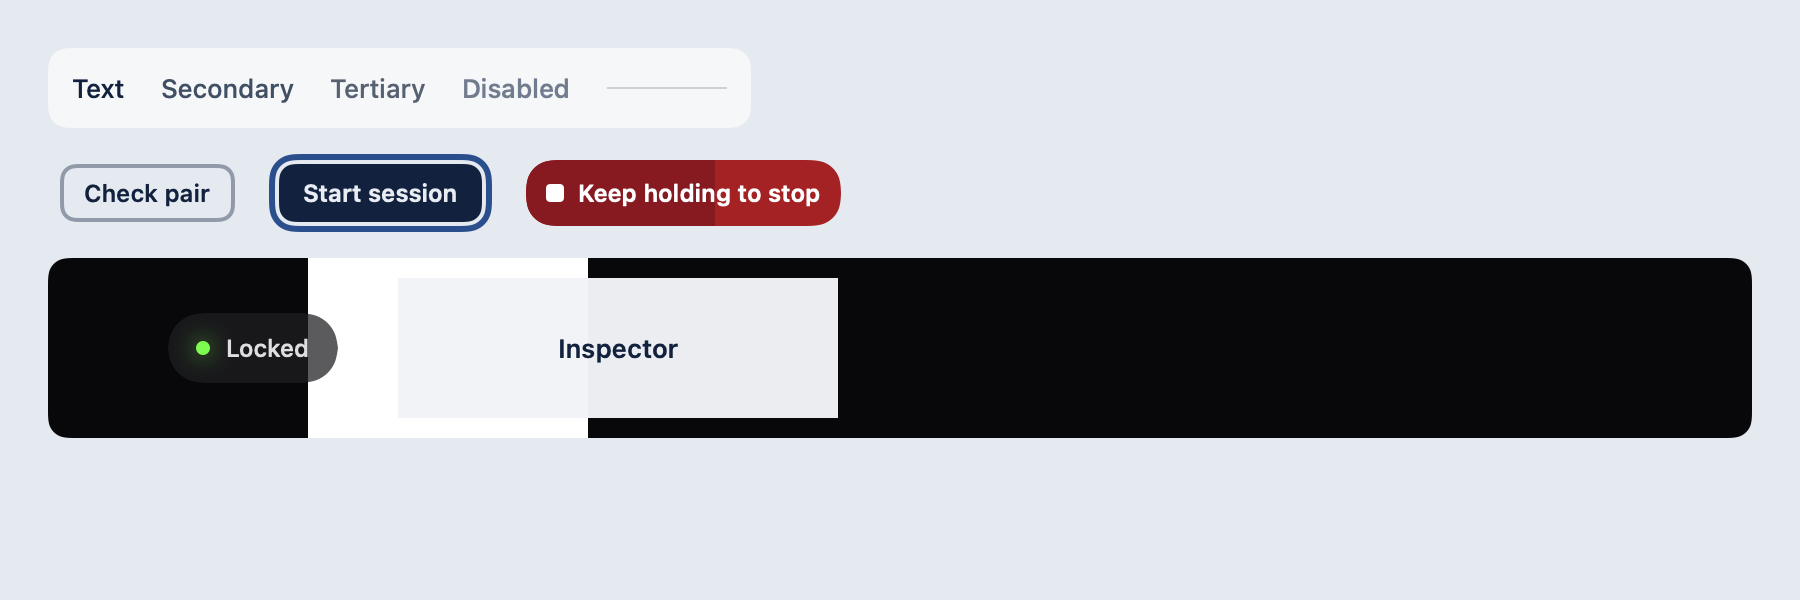
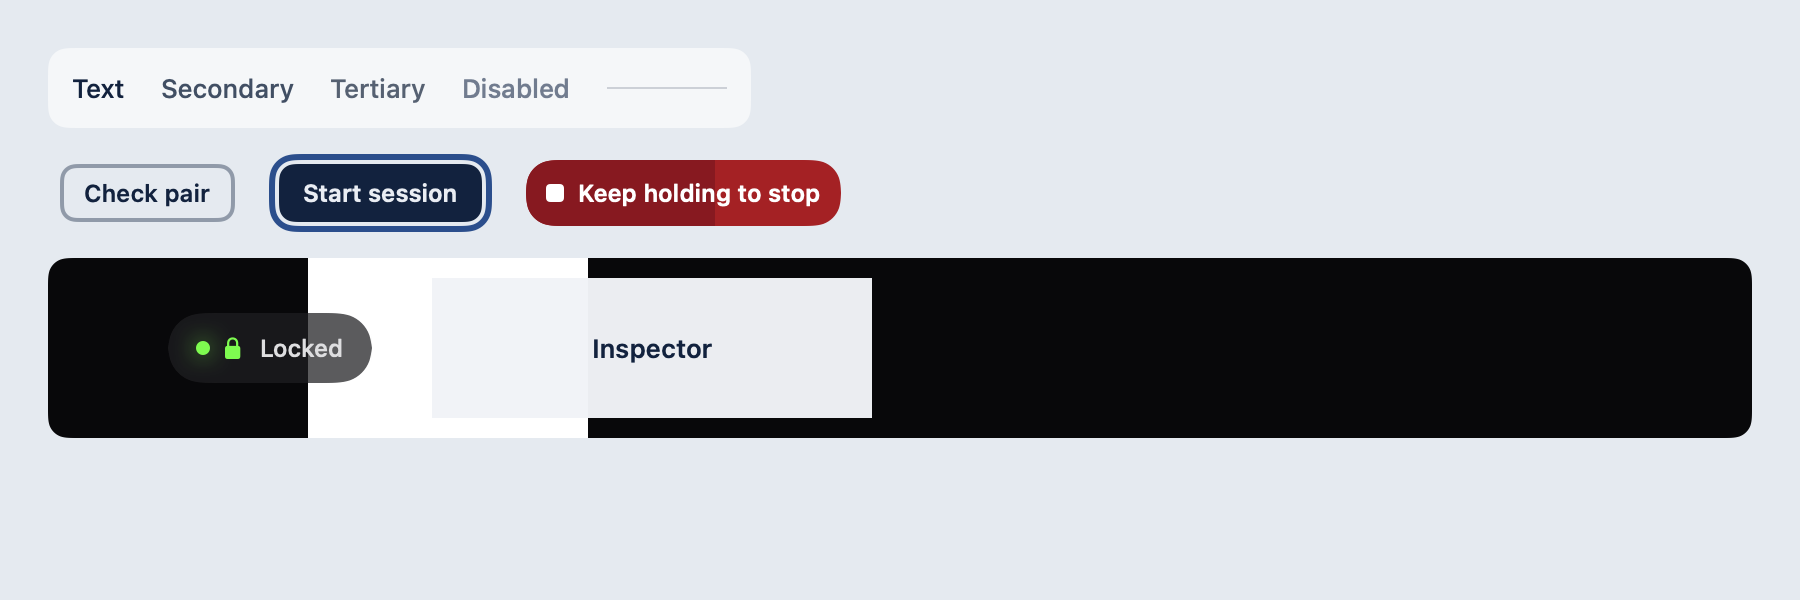
Record Track A captures and results (UX J3, J4, J5, J12)

Changed region(s): [[0.4667, 0.45, 0.4978, 0.72], [0.1244, 0.51, 0.2178, 0.66], [0.3111, 0.57, 0.4044, 0.6]]

diff --git a/CinematicCoreMacOS/CinematicCoreMacOSTests/TrackAGallerySnapshotTests.swift b/CinematicCoreMacOS/CinematicCoreMacOSTests/TrackAGallerySnapshotTests.swift
@@ -1,0 +1,210 @@
+//
+//  TrackAGallerySnapshotTests.swift
+//  CinematicCoreMacOSTests
+//
+//  Track A captures (UX J3, J4, J5, J12) over a synthetic picture: the
+//  pill's lock states, a hovered candidate, the on-picture hints, the
+//  Webcam use states and its one-time note. Footage stays dark in every
+//  appearance, so each scene renders once, plus Reduce Transparency.
+//  Set ALFIE_GALLERY_SNAPSHOTS=1 (TEST_RUNNER_ALFIE_GALLERY_SNAPSHOTS=1 on
+//  xcodebuild) and ALFIE_GALLERY_SNAPSHOT_DIR to write the PNGs.
+//
+
+import AppKit
+import SwiftUI
+import Testing
+@testable import Alfie
+
+@MainActor
+struct TrackAGallerySnapshotTests {
+    private static let size = CGSize(width: 1000, height: 560)
+
+    @Test(arguments: [false, true])
+    func rendersTrackingScene(reduceTransparency: Bool) throws {
+        let image = try #require(render(TrackingScene(), reduceTransparency: reduceTransparency))
+        #expect(image.pixelsWide > 0)
+        try write(image, name: reduceTransparency ? "track-a-tracking-reduce-transparency.png" : "track-a-tracking.png")
+    }
+
+    @Test(arguments: [false, true])
+    func rendersWebcamScene(reduceTransparency: Bool) throws {
+        let image = try #require(render(WebcamScene(), reduceTransparency: reduceTransparency))
+        #expect(image.pixelsWide > 0)
+        try write(image, name: reduceTransparency ? "track-a-webcam-reduce-transparency.png" : "track-a-webcam.png")
+    }
+
+    @Test func rendersPillGroupsAndStop() throws {
+        let image = try #require(render(PillScene(), reduceTransparency: false, size: CGSize(width: 1240, height: 420)))
+        #expect(image.pixelsWide > 0)
+        try write(image, name: "track-a-pill.png")
+    }
+
+    // MARK: Rendering
+
+    private func render<V: View>(_ view: V, reduceTransparency: Bool, size: CGSize? = nil) -> NSBitmapImageRep? {
+        let size = size ?? Self.size
+        var display = AlfieDisplayPreferences()
+        display.reduceTransparency = reduceTransparency
+        let host = NSHostingView(rootView: view
+            .environment(\.colorScheme, .dark)
+            .environment(\.alfieDisplayOverride, display)
+            .frame(width: size.width, height: size.height))
+        host.sizingOptions = []
+        host.frame = CGRect(origin: .zero, size: size)
+        let window = TrackAGalleryWindow(contentRect: host.frame, styleMask: [.borderless],
+                                         backing: .buffered, defer: false)
+        window.appearance = NSAppearance(named: .darkAqua)
+        window.contentView = host
+        host.layoutSubtreeIfNeeded()
+        RunLoop.current.run(until: Date().addingTimeInterval(0.05))
+        guard let rep = host.bitmapImageRepForCachingDisplay(in: host.bounds) else { return nil }
+        host.cacheDisplay(in: host.bounds, to: rep)
+        return rep
+    }
+
+    private func write(_ image: NSBitmapImageRep, name: String) throws {
+        let environment = ProcessInfo.processInfo.environment
+        guard environment["ALFIE_GALLERY_SNAPSHOTS"] == "1" else { return }
+        let directory: URL
+        if let override = environment["ALFIE_GALLERY_SNAPSHOT_DIR"], !override.isEmpty {
+            directory = URL(fileURLWithPath: override, isDirectory: true)
+        } else {
+            directory = FileManager.default.temporaryDirectory.appendingPathComponent("AlfieStateGallery", isDirectory: true)
+        }
+        try FileManager.default.createDirectory(at: directory, withIntermediateDirectories: true)
+        let png = try #require(image.representation(using: .png, properties: [:]))
+        try png.write(to: directory.appendingPathComponent(name))
+        print("[TRACK-A] wrote \(directory.appendingPathComponent(name).path)")
+    }
+}
+
+private final class TrackAGalleryWindow: NSWindow {
+    override func constrainFrameRect(_ frameRect: NSRect, to screen: NSScreen?) -> NSRect { frameRect }
+}
+
+/// A synthetic stage: dark at the left, bright at the right, so a scrim is
+/// shown over both extremes. Not a camera picture.
+private struct SyntheticFootage: View {
+    var body: some View {
+        LinearGradient(colors: [Color(white: 0.06), Color(white: 0.35), Color(white: 0.96)],
+                       startPoint: .leading, endPoint: .trailing)
+    }
+}
+
+private func person(_ x: CGFloat, _ y: CGFloat, _ w: CGFloat, _ h: CGFloat, confidence: Float = 0.91)
+    -> PersonDetector.DetectedPerson {
+    PersonDetector.DetectedPerson(id: UUID(), boundingBox: CGRect(x: x, y: y, width: w, height: h),
+                                  confidence: confidence, timestamp: 0, poseKeypoints: nil,
+                                  faceBoundingBox: nil, faceLandmarkRatios: nil)
+}
+
+/// J3: candidates (one under the pointer), a locked subject, and both hints.
+private struct TrackingScene: View {
+    private let imageSize = CGSize(width: 1920, height: 1080)
+
+    var body: some View {
+        HStack(spacing: 0) {
+            pane(title: "Detect: pointer over the left person", hints: nil) { size in
+                ZStack {
+                    let hovered = person(0.12, 0.15, 0.2, 0.6)
+                    box(hovered, size: size, hovered: true)
+                    box(person(0.6, 0.12, 0.22, 0.62, confidence: 0.84), size: size)
+                }
+            }
+            Rectangle().fill(Color.white.opacity(0.12)).frame(width: 1)
+            pane(title: "Hold: the subject is lost", hints: .init(candidatesClickable: true, showsRecoveryHint: true,
+                                                                   isLocked: true)) { size in
+                box(person(0.55, 0.15, 0.2, 0.6, confidence: 0.77), size: size)
+            }
+        }
+        .overlay(alignment: .bottom) {
+            TrackingHintLabel(text: TrackingHintCopy.firstLock)
+                .padding(.bottom, 24)
+        }
+    }
+
+    private func box(_ person: PersonDetector.DetectedPerson, size: CGSize, hovered: Bool = false) -> some View {
+        BoundingBoxView(person: person, displayBoundingBox: person.boundingBox, imageSize: imageSize, viewSize: size,
+                        isLocked: false, isActive: false, isRecovering: false, framingTitle: "Wide",
+                        onSelect: nil, isHovered: hovered)
+    }
+
+    private func pane<Content: View>(title: String, hints: TrackingPresentation?,
+                                     @ViewBuilder content: @escaping (CGSize) -> Content) -> some View {
+        GeometryReader { geometry in
+            ZStack {
+                SyntheticFootage()
+                content(geometry.size)
+                if let hints {
+                    TrackingHintLabel(text: hints.showsRecoveryHint ? TrackingHintCopy.recovery : TrackingHintCopy.firstLock)
+                        .position(x: geometry.size.width / 2, y: geometry.size.height - 120)
+                }
+                Text(title)
+                    .font(.system(size: 12, weight: .semibold))
+                    .foregroundStyle(AlfieColor.onVideo.emphasis)
+                    .padding(6)
+                    .background(Color.black.opacity(0.6), in: RoundedRectangle(cornerRadius: 6))
+                    .position(x: geometry.size.width / 2, y: 18)
+            }
+        }
+    }
+}
+
+/// J5: the three use states and the one-time note, over dark and bright.
+private struct WebcamScene: View {
+    var body: some View {
+        ZStack(alignment: .topLeading) {
+            SyntheticFootage()
+            VStack(alignment: .leading, spacing: 14) {
+                WebcamUsageChip(state: .inUse)
+                WebcamUsageChip(state: .notInUse)
+                WebcamUsageChip(state: .unknown)
+                WebcamTipCard(onDismiss: {})
+            }
+            .padding(24)
+            VStack(alignment: .trailing, spacing: 14) {
+                WebcamUsageChip(state: .inUse)
+                WebcamUsageChip(state: .notInUse)
+                WebcamUsageChip(state: .unknown)
+                WebcamTipCard(onDismiss: {})
+            }
+            .padding(24)
+            .frame(maxWidth: .infinity, alignment: .trailing)
+        }
+    }
+}
+
+/// J4 and J12: the lock states with their glyph, and the pill's Stop phases.
+private struct PillScene: View {
+    @StateObject private var manager = CameraManager()
+
+    var body: some View {
+        ZStack {
+            SyntheticFootage()
+            VStack(spacing: 22) {
+                OperatorPill(cameraManager: manager)
+                HStack(spacing: 18) {
+                    ForEach(OperatorPill.LockState.allCases, id: \.self) { state in
+                        HStack(spacing: 8) {
+                            PillLockIndicator(state: state)
+                            Text(state.label)
+                                .font(.system(size: 12, weight: .medium))
+                                .foregroundStyle(state.labelColor)
+                        }
+                        .padding(.horizontal, 10)
+                        .padding(.vertical, 9)
+                        .background(OperatorPillBackground(cornerRadius: 11))
+                    }
+                }
+                HStack(spacing: 14) {
+                    AlfieHoldToStopButton(confirmationMessage: StopRouteCopy.confirmation(for: .virtualCamera),
+                                          previewPhase: .resting, onStop: {})
+                    AlfieHoldToStopButton(previewPhase: .holding(since: 0), previewProgress: 0.6, onStop: {})
+                    AlfieHoldToStopButton(previewPhase: .needsHold, onStop: {})
+                    AlfieHoldToStopButton(previewPhase: .stopping, onStop: {})
+                    AlfieHoldToStopButton(previewPhase: .failed, onStop: {})
+                }
+            }
+        }
+    }
+}

diff --git a/docs/handoff/2026-11-05/CLAUDE-TRACK-A-RESULTS.md b/docs/handoff/2026-11-05/CLAUDE-TRACK-A-RESULTS.md
@@ -1,7 +1,69 @@
 # Claude Track A results (UX J3, J4, J5, J12)
 
-6 November 2026. Claude Opus 5.5 claimed Track A at 12:45 AEDT, while Sol and Astra were out of usage. Astra skips Track A and finishes Track C; Sol keeps Track B.
+6 November 2026. Claude Opus 5.5 claimed Track A at 12:45 AEDT, while Sol and Astra were out of usage. The claim is #124, the PR that carries this work. Astra skips Track A and finishes Track C; Sol keeps Track B and reviews this PR in Wave 3.
 
-Scope (from the round-two brief): `OperatorPill`, `DetectionOverlayView`, `OverlayLayer`, `CameraPreviewView` and `CropPreviewView`, plus publishing Detect, the five shot commands, `cancel` and `stopSession` from the live Single Cam and Webcam views. ContentView (Track C) gets only the smallest insertions needed to host new views.
+## What changed
 
-In progress.
+**J4 · shape the shot on air** (`OperatorPill`)
+- **Four groups, 12 pt apart:**
+  - Subject: the target chip, the lock state and Detect.
+  - Shot: Wide, Full Body and Waist Up, or Wide and Tight on Webcam.
+  - Move: Crop, Manual, Auto Pan, Pull out, Push in and Return to Wide.
+  - Session: Stop.
+
+  Controls inside a group are 4 pt apart, and each group is a VoiceOver container named for it. The section order is unchanged, so the existing pill tests still hold. The pill got narrower, because three group gaps replaced eight dividers.
+- **Every disabled control says why,** in its help tag and as the VoiceOver hint. For example: "Zoom limited by the source.", "Already at the tightest shot.", "Lock a subject first." and "Turn off Manual or Auto Pan to detect." The pill's "ZOOM LIMITED" line now reads "Zoom limited by the source".
+- **Already done in F3:** Manual and Auto Pan toggles with an on/off indicator, the active shot shown as selected, and the 11 pt labels.
+
+**Keys** (`OperatorPillCommands.swift`)
+- **Only the live single-camera pill publishes** (Single Cam and Webcam):
+  - Detect (D), or Cancel Detect on Escape while Detect waits for a click.
+  - Wide, Full Body and Waist Up (W, F, U). Webcam publishes only W.
+  - Push In and Pull Out (] and [), while each is possible.
+  - Stop Session (⌘⌥⇧S), which takes precedence over the app fallback.
+- **Withdrawn when unavailable,** so the menu item disables and the key passes through.
+- **Announcements** follow keyboard-map.md. A refused command announces its reason, never success.
+- **TAKE and the cue keys are never published here.** The Multiview console's pill publishes nothing; its commands belong to Track B.
+
+**J12 · the pill's Stop**
+- It's `AlfieHoldToStopButton`.
+- The confirmation names the active route from stop.md's table. Direct says "Direct Program output", because the destination's identity is never inferred.
+- A refused Stop shows "Try stopping again".
+- `StopRouteCopy.helper(for:)` holds the header lines, so Track B can use them.
+
+**J3 · lock a subject** (`TrackingHints.swift`, `CameraPreviewView`, `DetectionOverlayView`)
+- **A lock glyph sits beside "Locked" in every setting** (F4 showed it only under Differentiate Without Colour). The pill reserves its width, so locking doesn't shift the pill.
+- **While a click picks a person** (Detect waiting, or Hold or Wide-waiting), the candidate under the pointer gets a wash and a heavier outline, and the pointer becomes the pointing hand. Nothing else in the app uses it.
+- **In Hold and Wide-waiting,** "Click the person to pick them up again." shows on a scrim along the bottom of the picture, and is announced once.
+- **On the first lock only** (persisted per user), "Locked. To follow someone else, press and hold on them." shows for five seconds and is announced.
+- **Under Reduce Motion** the hints don't fade. Under Reduce Transparency the scrims are opaque. The steady acquiring outline came in F4.
+
+**J5 · Webcam in a call** (`Webcam/WebcamCallOverlay.swift`)
+- **While Webcam is live,** a chip under the identity stack reads "Alfie camera · in use", "· not in use yet" or "· use status unavailable". Each has its own symbol, its help and its spoken line from webcam.md.
+  - It comes from Sol's `WebcamUsageObserver`, which only this view drives, only while live.
+  - Changes are announced once. "No longer in use" follows earlier use.
+  - Stop clears it at once.
+- **The one-time note,** "In Zoom, Meet or FaceTime, choose Alfie as your camera.", has **Got it** (accessible name "Dismiss camera selection tip"). It's remembered per user. After that it stays as the not-in-use help.
+- **Wide and Tight's selected state** came in F3.
+
+**ContentView** (Track C's file) gets two small insertions in the live single-camera layer, away from Astra's J1, J2 and J9 hunks: `tracking:` on the crop preview, and the Webcam overlay.
+
+## A copy correction
+
+The round-two plan's first-lock tip said "Click someone else to switch. Hold to retarget." The app deliberately never changes a locked shot on a click, so a stray press mid-show can't cut; only a hold retargets. The tip says what the app does instead.
+
+## Tests
+
+- `TrackAPillTests`: the groups, published commands for each state, no TAKE or cue key, menu titles, unavailable reasons, stop.md's route lines.
+- `TrackATrackingWebcamTests`: who is clickable, the once-only first-lock tip, letterbox hit-testing, webcam.md's words and announcements, and never claiming a call is receiving.
+- `TrackAGallerySnapshotTests`: `track-a-*.png` (synthetic picture). The captures that show the pill or its lock dot are regenerated.
+
+## Not verified by software
+
+Attended checks on the running app:
+- the real pointer and pointing hand over people, and hover over moving boxes;
+- the hold gesture, keyboard and VoiceOver confirmation on the pill's Stop;
+- each bare key with a real keyboard, and non-US layouts;
+- VoiceOver announcements;
+- the Webcam use signal with real meeting apps (no consumer, one, two, last release, crash, extension restart, denied permission), per webcam-in-use-feasibility.md;
+- each macOS display setting switched on for real.

diff --git a/docs/gallery-screenshots/README.md b/docs/gallery-screenshots/README.md
@@ -56,6 +56,8 @@ There is one capture per macOS display setting (UX F4), forced with `alfieDispla
 | Reduce Motion | [light](a11y-reduce-motion-light.png) | [dark](a11y-reduce-motion-dark.png) |
 | Differentiate Without Colour | [light](a11y-differentiate-without-colour-light.png) | [dark](a11y-differentiate-without-colour-dark.png) |
 
+Since Track A (J3), the pill shows its lock glyph beside the word "Locked" in every setting, so the Differentiate Without Colour capture now matches standard for the lock.
+
 ## Operator pill
 
 | Target | Capture |
@@ -63,6 +65,16 @@ There is one capture per macOS display setting (UX F4), forced with `alfieDispla
 | Current single camera | [pill-single.png](pill-single.png) |
 | Camera B Preview | [pill-preview.png](pill-preview.png) |
 | Camera A editing live | [pill-editing-live.png](pill-editing-live.png) |
+
+## Track A: Single Cam and Webcam
+
+`TrackAGallerySnapshotTests` draws these over a **synthetic** gradient, dark at the left and bright at the right, so scrims show over both extremes. They are not camera pictures, and footage stays dark in every appearance.
+
+| Scene | Capture | Reduce Transparency |
+| --- | --- | --- |
+| J3: a candidate under the pointer, the recovery hint and the first-lock tip | [track-a-tracking.png](track-a-tracking.png) | [opaque scrims](track-a-tracking-reduce-transparency.png) |
+| J5: the three Alfie camera use states and the one-time meeting-app note | [track-a-webcam.png](track-a-webcam.png) | [opaque](track-a-webcam-reduce-transparency.png) |
+| J4 and J12: the grouped pill (not running, so its controls show their unavailable floor), every lock state with its glyph, and the pill's hold-to-stop phases | [track-a-pill.png](track-a-pill.png) | — |
 
 ## Director
 
